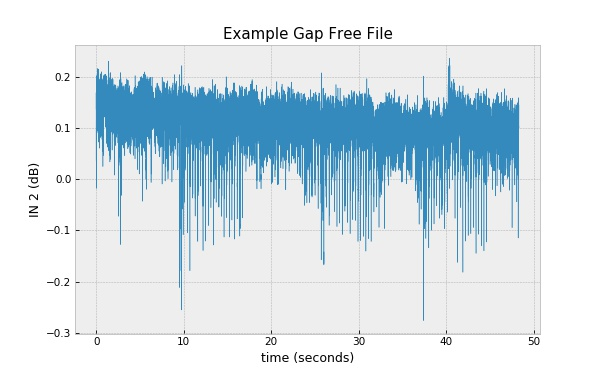
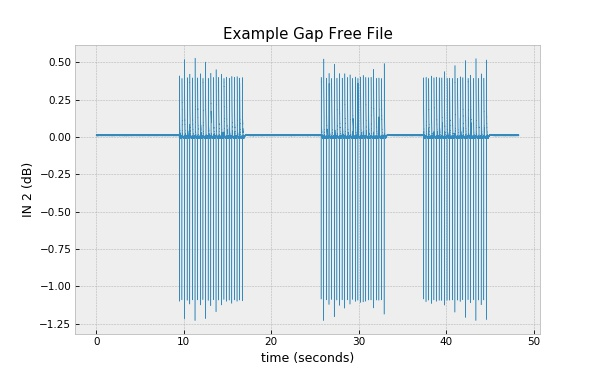
remake gap-free figures after bug fix

diff --git a/docs/getting-started/generate.py b/docs/getting-started/generate.py
@@ -382,9 +382,6 @@ They start out simple and increase in complexity.
         if not functionName.startswith("demo_"):
             continue
 
-        # if not "10a" in functionName:
-            # continue
-
         # run the function
         print(f"### RUNNING {functionName}()")
         func = getattr(uses, functionName)
